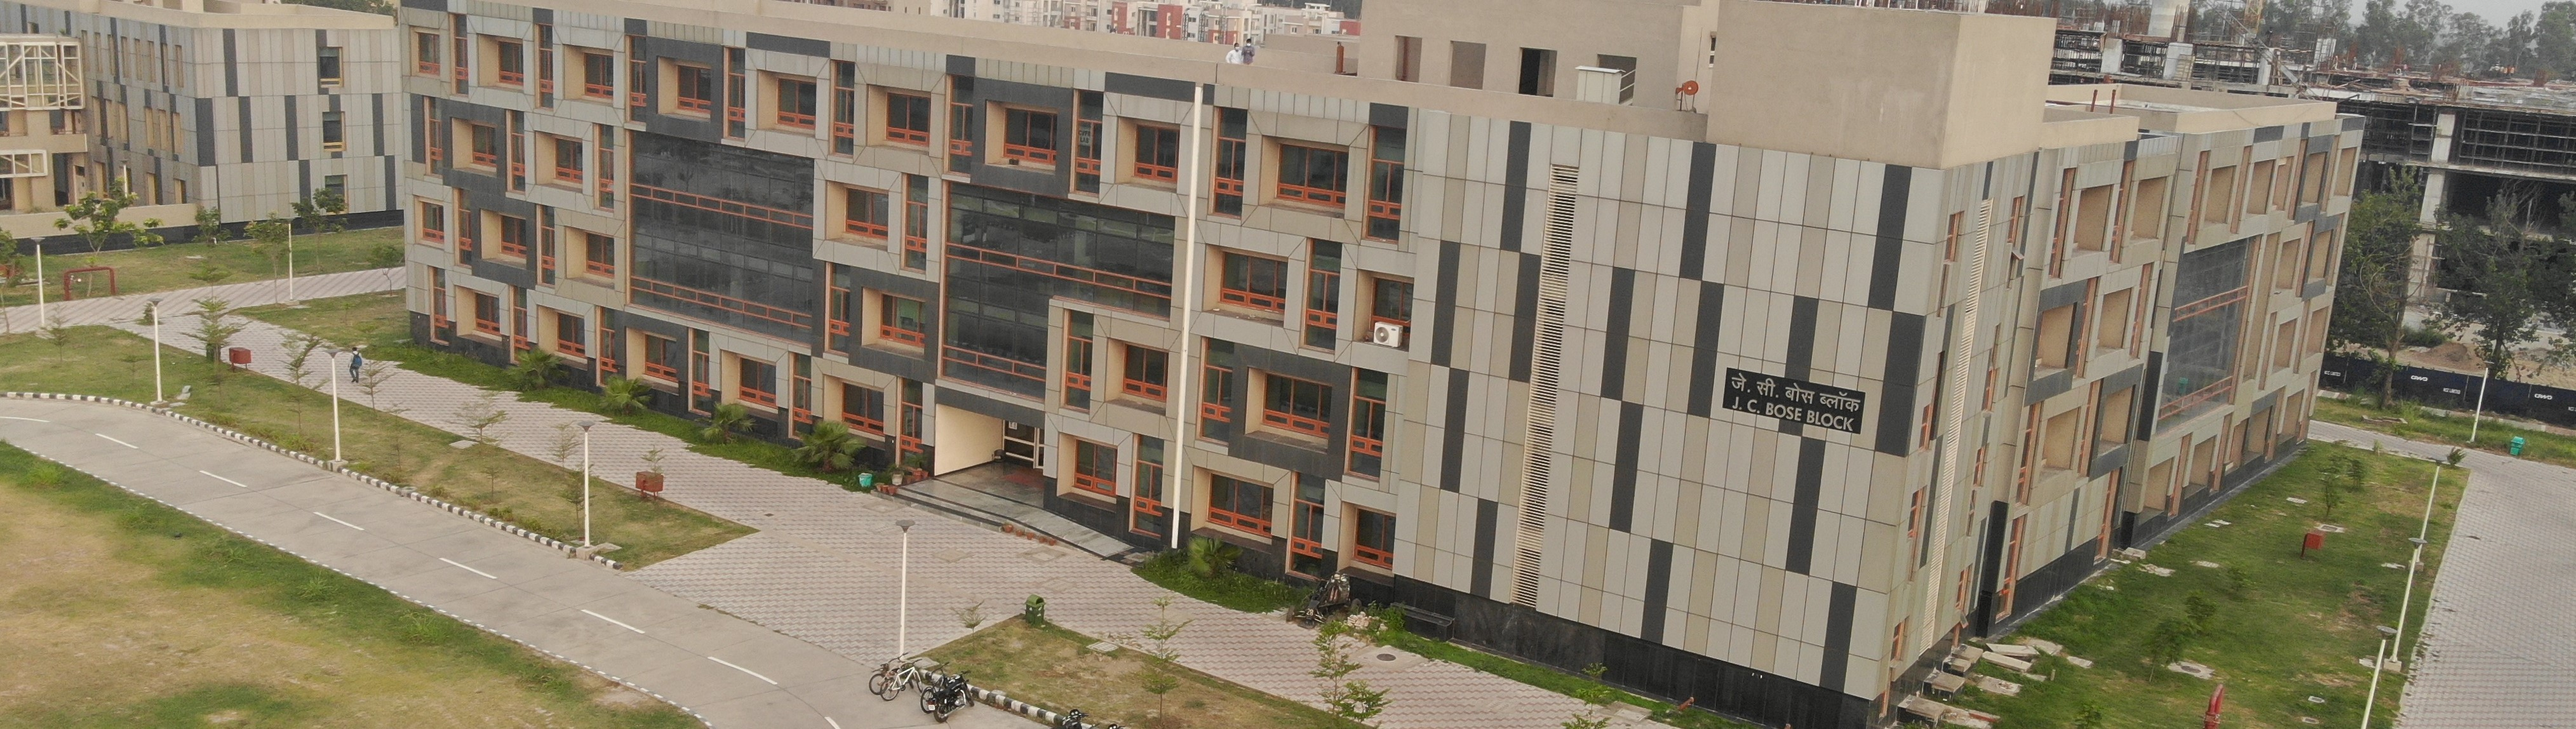
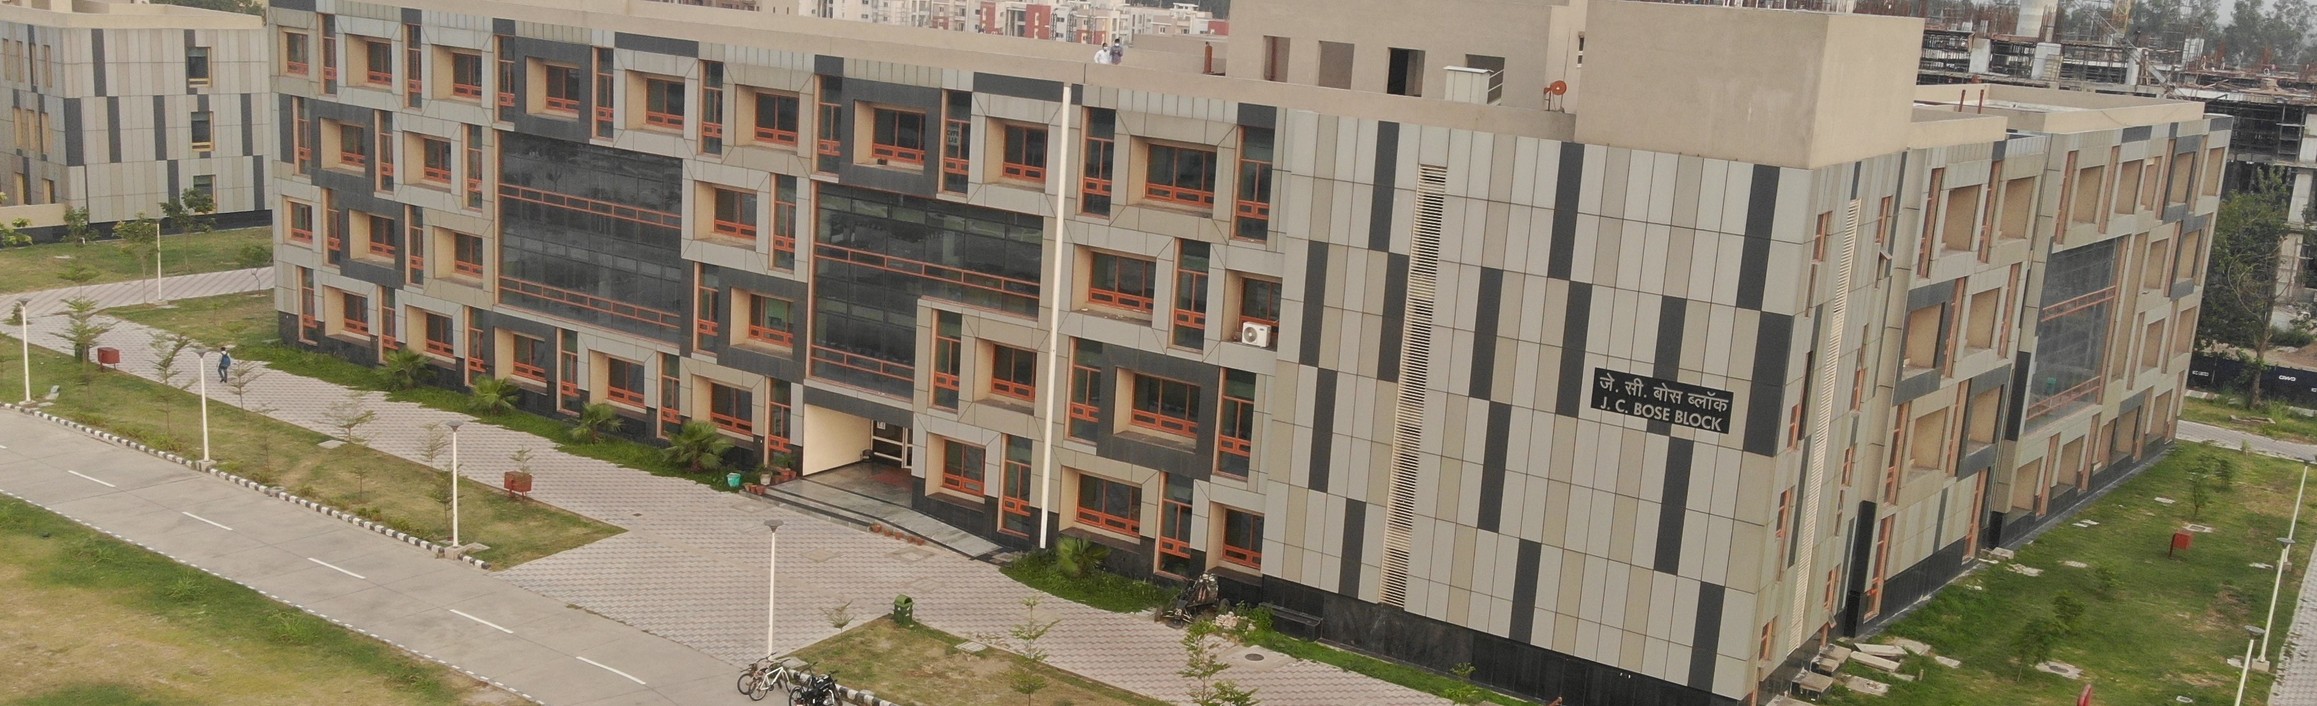
crousel fix

diff --git a/src/components/icl/Slider1.jsx b/src/components/icl/Slider1.jsx
@@ -1,22 +1,17 @@
 import React from 'react'
-
-
-
 import Main from '../images/mainimg.jpeg'
 import Slider3 from '../images/Slider3.jpg'
 import Department from '../images/Department.jpeg'
-import Spiral from '../images/spiraliitropar.jpg'
-
-import Styled from 'styled-components' ;
 
 function Slider1() {
-    
-    
- 
+
   return (
 
        <div>
-      <div id="carouselExampleCaptions" className="carousel slide">
+
+
+
+<div id="carouselExampleCaptions" className="carousel slide">
   <div className="carousel-indicators">
     <button type="button" data-bs-target="#carouselExampleCaptions" data-bs-slide-to="0" className="active" aria-current="true" aria-label="Slide 1"></button>
     <button type="button" data-bs-target="#carouselExampleCaptions" data-bs-slide-to="1" aria-label="Slide 2"></button>
@@ -24,27 +19,17 @@ function Slider1() {
   </div>
   <div className="carousel-inner">
     <div className="carousel-item active">
-      <img src={Main} className="d-block w-100 sliddder" height="350px" alt="..."  />
+      <img src={Main} className="d-block w-100 sliddder"  alt="..."  />
 
-      {/* <div className="carousel-caption d-none d-md-block">
-        <h5>First slide label</h5>
-        <p>Some representative placeholder content for the first slide.</p>
-      </div> */}
-
+     
     </div>
     <div className="carousel-item">
-      <img src={Department} className="d-block w-100" height="350px" alt="..." />
-      {/* <div className="carousel-caption d-none d-md-block">
-        <h5>Second slide label</h5>
-        <p>Some representative placeholder content for the second slide.</p>
-      </div> */}
+      <img src={Department} className="d-block w-100"  alt="..." />
+     
     </div>
     <div className="carousel-item">
-      <img src={Slider3} className="d-block w-100" height="350px" alt="..." />
-      {/* <div className="carousel-caption d-none d-md-block">
-        <h5>Third slide label</h5>
-        <p>Some representative placeholder content for the third slide.</p>
-      </div> */}
+      <img src={Slider3} className="d-block w-100" alt="..." />
+     
     </div>
   </div>
   <button className="carousel-control-prev" type="button" data-bs-target="#carouselExampleCaptions" data-bs-slide="prev">
@@ -56,9 +41,13 @@ function Slider1() {
     <span className="visually-hidden">Next</span>
   </button>
 </div>
+
+
+
+
     </div>
    
-  )
+  );
 }
 
 export default Slider1
